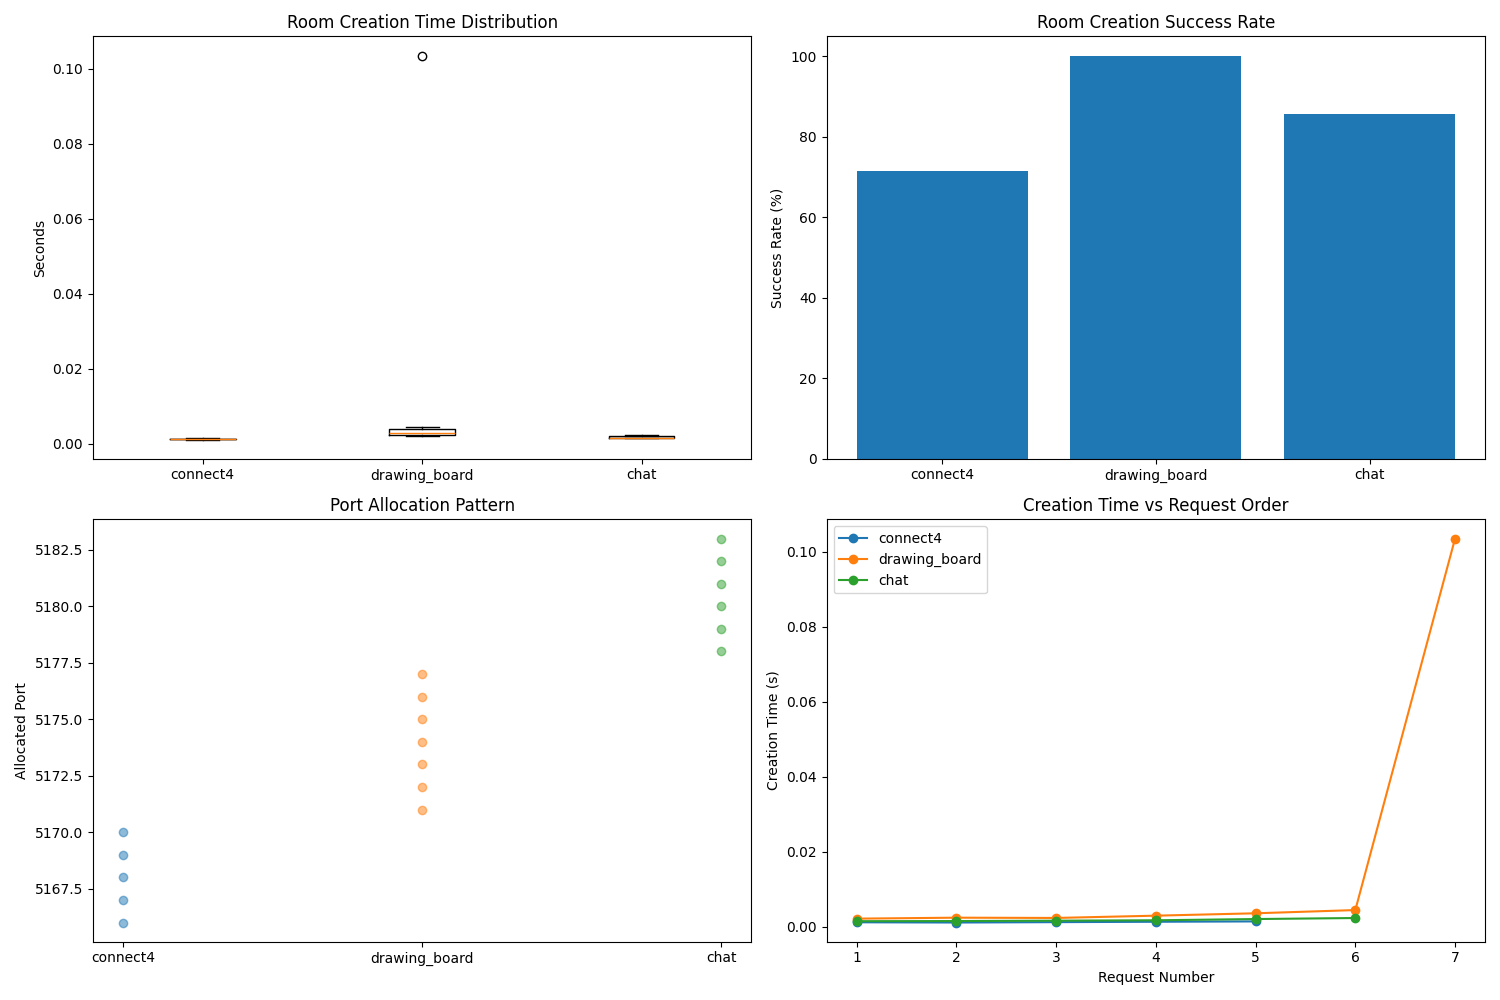
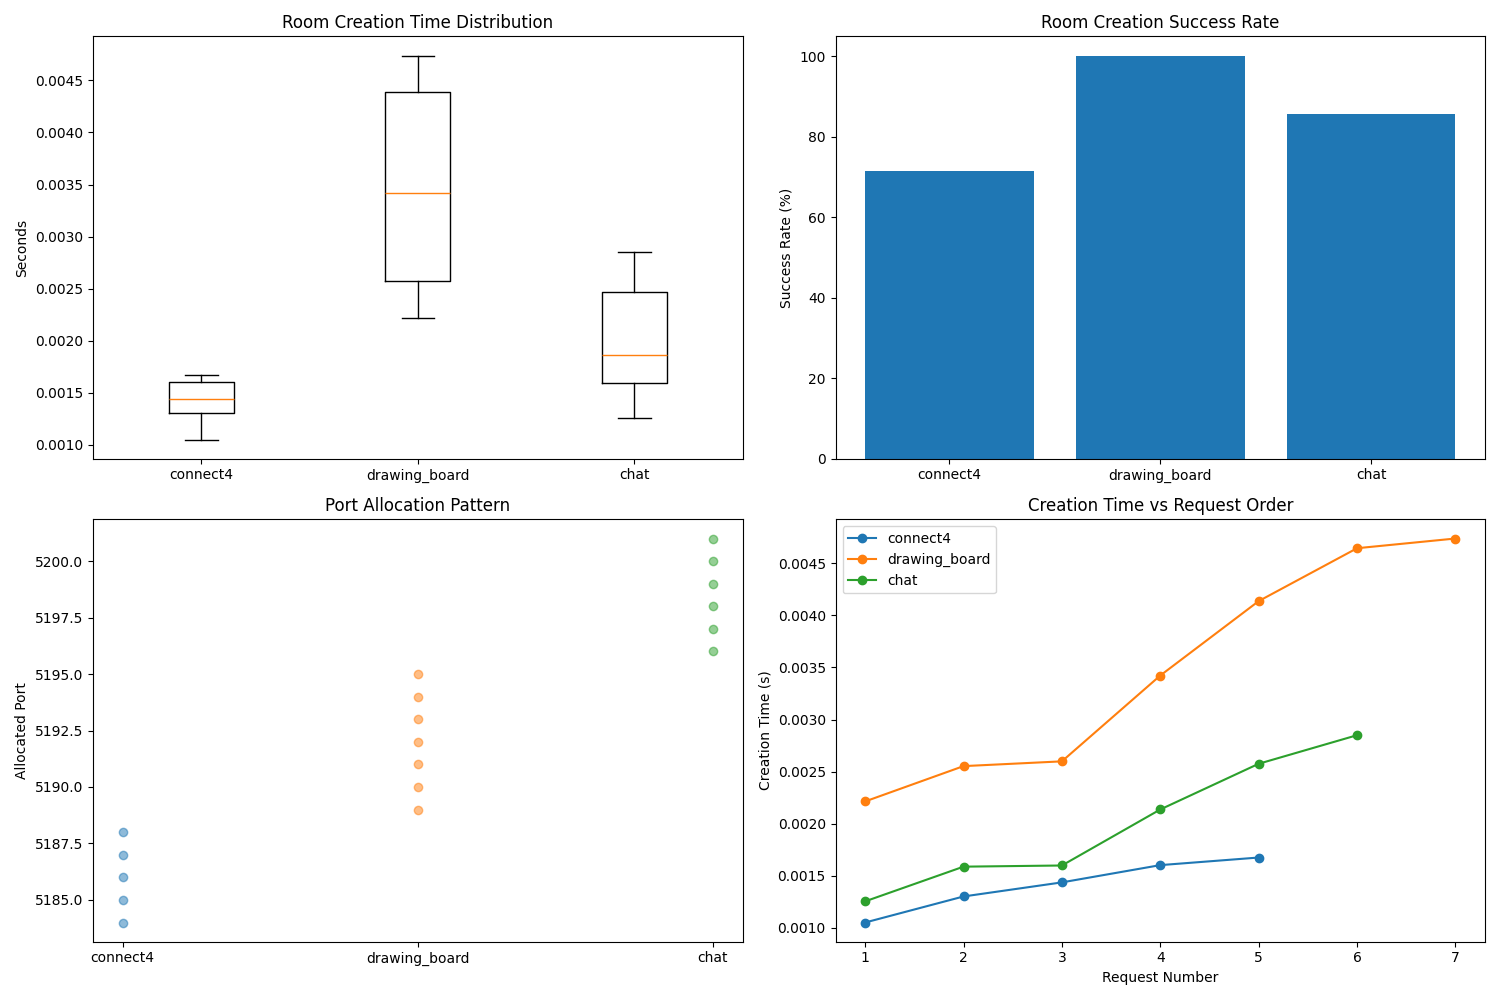
test results

diff --git a/matchmaking_testing.py b/matchmaking_testing.py
@@ -5,7 +5,7 @@ from concurrent.futures import ThreadPoolExecutor
 import statistics
 import matplotlib.pyplot as plt
 from collections import defaultdict
-concurrent_rooms = 7
+concurrent_rooms = 128
 class MatchmakerTester:
     def __init__(self, host='127.0.0.1', matchmaker_port=5050):
         self.host = host
